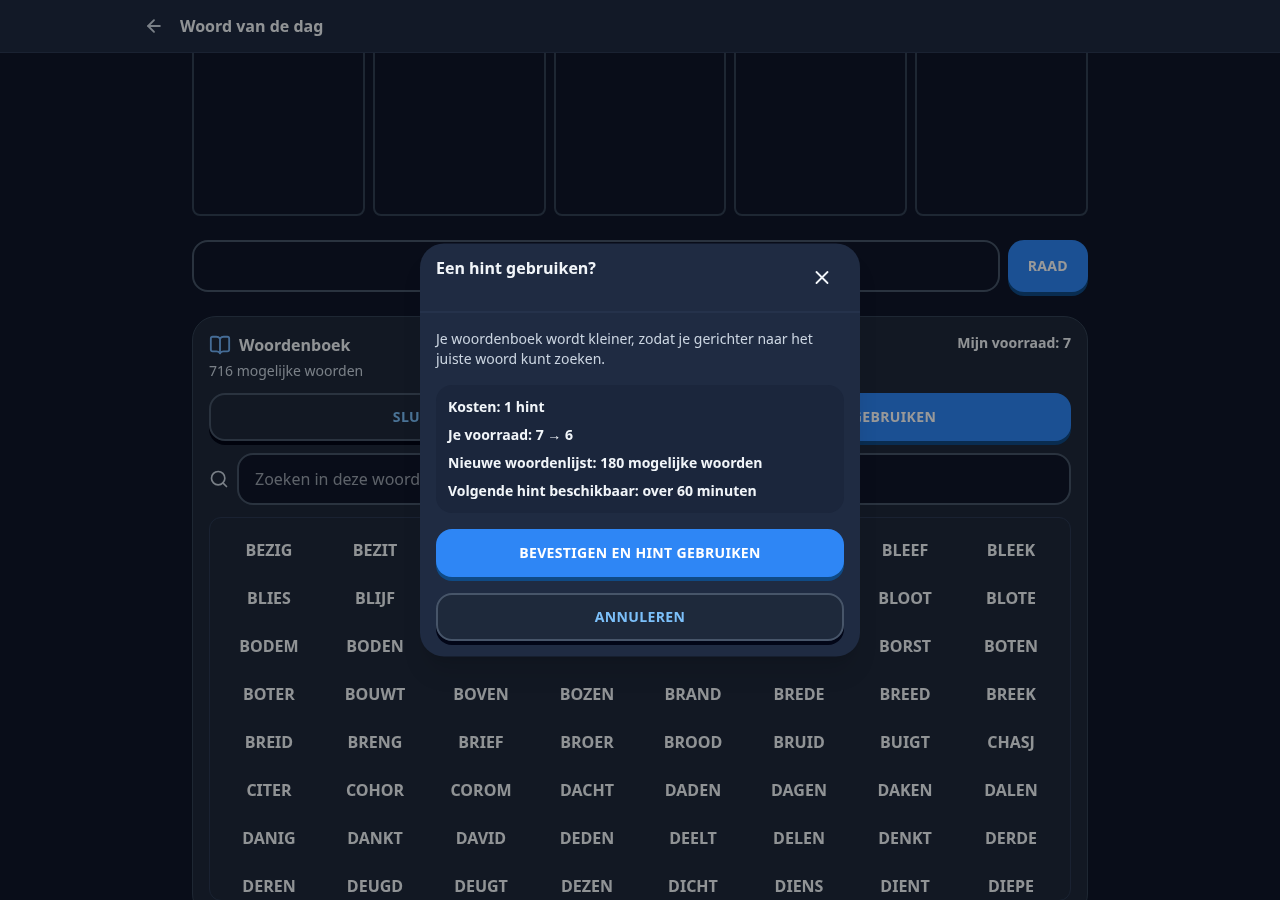
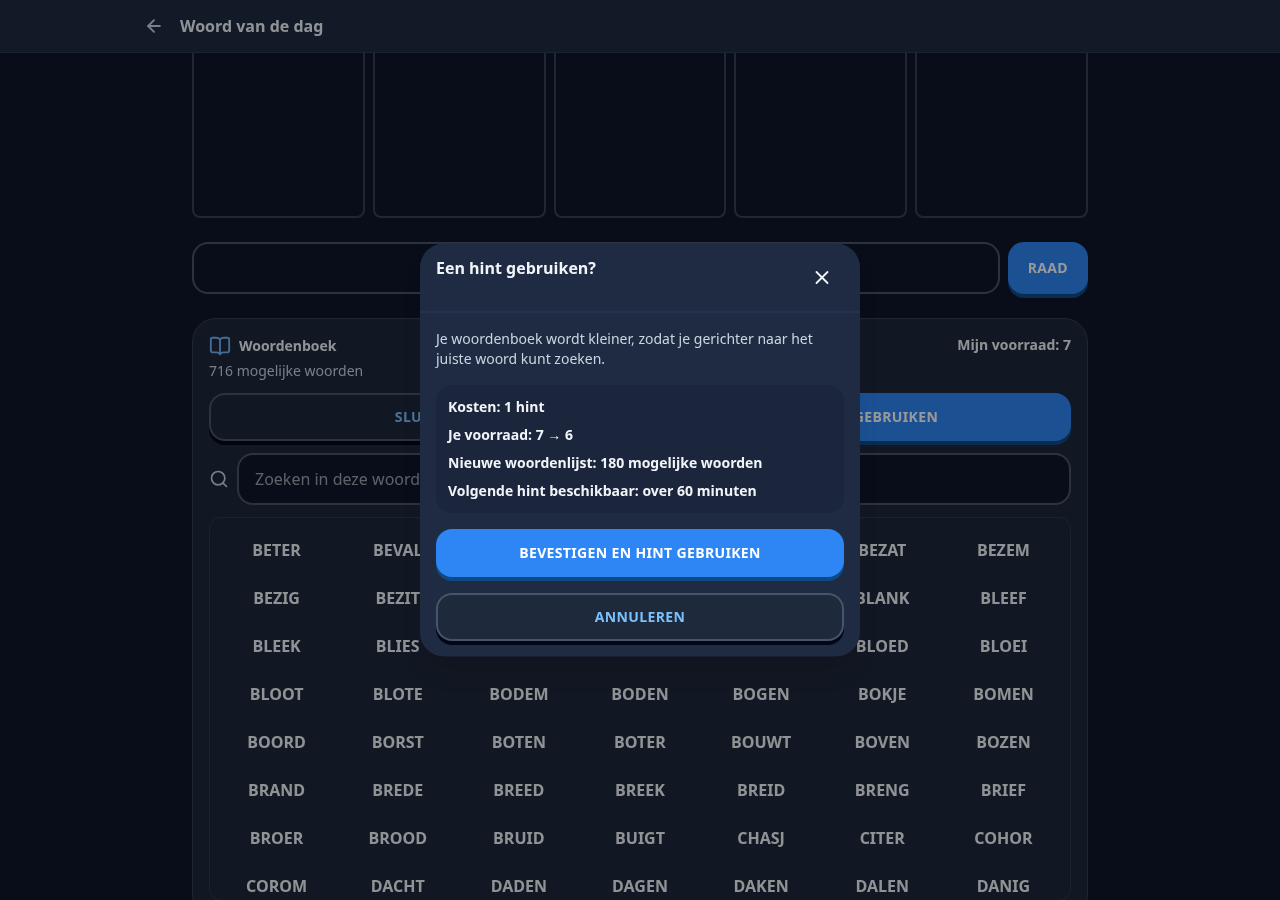
Bescherm hintbediening tegen brede systeemfonts en grote tekst

diff --git a/src/components/WordGameHintPanel.tsx b/src/components/WordGameHintPanel.tsx
@@ -79,15 +79,15 @@ export default function WordGameHintPanel({ gameId, hints, finished, serverNow, 
     } finally { buying.current = false; setBusy(false); }
   }
   const canBuy = !finished && hints.nextCount !== null;
-  return <section className="card flex min-w-0 flex-col gap-3 !p-3 text-vs-fg sm:!p-4" aria-labelledby="word-hints-title" data-word-hints>
+  return <section className="card flex min-w-0 flex-col gap-3 !p-[12px] text-vs-fg sm:!p-4" aria-labelledby="word-hints-title" data-word-hints>
     <div className="flex flex-wrap items-start justify-between gap-2">
-      <div className="min-w-0"><h2 id="word-hints-title" className="flex items-center gap-2 font-extrabold"><BookOpen size={22} className="shrink-0 text-vs-accent" aria-hidden />{t("wordOfTheDay.hintTitle")}</h2>
+      <div className="min-w-0"><h2 id="word-hints-title" className="flex flex-wrap items-center gap-2 text-sm font-extrabold [overflow-wrap:normal]"><BookOpen size={22} className="shrink-0 text-vs-accent" aria-hidden />{t("wordOfTheDay.hintTitle")}</h2>
         <p className="mt-1 text-sm text-vs-fg-2">{hints.level > 0 ? t("wordOfTheDay.hintCount", { n: hints.candidates.length }) : t("wordOfTheDay.hintLocked")}</p></div>
       <p className="text-sm font-semibold" data-word-hint-stock>{balance === undefined ? t("common.loading") : t("wordOfTheDay.hintStock", { n: balance })}</p>
     </div>
     <div className="flex flex-wrap gap-2">
       {hints.level > 0 && <button type="button" className="btn-secondary min-h-12 min-w-[min(100%,9rem)] flex-1 !px-2" aria-expanded={open} onClick={() => setOpen(!open)}>{t(open ? "wordOfTheDay.hintClose" : "wordOfTheDay.hintOpen")}</button>}
-      {canBuy && <button ref={trigger} type="button" className="btn-primary min-h-12 min-w-[min(100%,9rem)] flex-1 gap-2 !px-2" disabled={busy} onClick={ask}><Lightbulb size={22} className="hidden shrink-0 sm:block" aria-hidden />{t("wordOfTheDay.hintUse")}</button>}
+      {canBuy && <button ref={trigger} type="button" className="btn-primary min-h-12 min-w-[min(100%,9rem)] flex-1 gap-2 !px-1 [overflow-wrap:normal]" disabled={busy} onClick={ask}><Lightbulb size={22} className="hidden shrink-0 sm:block" aria-hidden />{t("wordOfTheDay.hintUse")}</button>}
     </div>
     {canBuy && remaining > 0 && <p className="text-sm text-vs-fg-2" data-word-hint-countdown>{cooldownText}</p>}
     {!finished && hints.nextCount === null && <p className="text-sm text-vs-fg-2">{t("wordOfTheDay.hintMax")}</p>}
@@ -97,7 +97,7 @@ export default function WordGameHintPanel({ gameId, hints, finished, serverNow, 
     {open && hints.level > 0 && <div className="space-y-3" data-word-dictionary>
       <label className="flex items-center gap-2"><Search size={20} className="shrink-0 text-vs-fg-2" aria-hidden /><input type="search" className="input min-w-0" aria-label={t("wordOfTheDay.hintSearch")} placeholder={t("wordOfTheDay.hintSearch")} value={search} onChange={(event) => setSearch(event.target.value)} /></label>
       <div className="max-h-[min(45svh,24rem)] overflow-y-auto overscroll-contain rounded-xl border border-vs-line p-2" tabIndex={0} aria-label={t("wordOfTheDay.hintCount", { n: words.length })}>
-        <ul className="grid grid-cols-[repeat(auto-fit,minmax(min(100%,6rem),1fr))] gap-1">{words.map((word) => <li key={word}>{finished ? <span className="block p-2 text-center font-semibold uppercase">{word}</span> : <button type="button" className="min-h-11 w-full rounded-lg p-2 text-center font-semibold uppercase hover:bg-vs-accent-soft focus-visible:outline-none focus-visible:ring-2 focus-visible:ring-vs-accent" aria-label={t("wordOfTheDay.hintSelect", { word })} onClick={() => { onFill(word); setMessage(t("wordOfTheDay.hintSelected", { word })); }}>{word}</button>}</li>)}</ul>
+        <ul className="grid grid-cols-[repeat(auto-fit,minmax(min(100%,7rem),1fr))] gap-1">{words.map((word) => <li key={word}>{finished ? <span className="block p-2 text-center font-semibold uppercase">{word}</span> : <button type="button" className="min-h-11 w-full rounded-lg p-2 text-center font-semibold uppercase hover:bg-vs-accent-soft focus-visible:outline-none focus-visible:ring-2 focus-visible:ring-vs-accent" aria-label={t("wordOfTheDay.hintSelect", { word })} onClick={() => { onFill(word); setMessage(t("wordOfTheDay.hintSelected", { word })); }}>{word}</button>}</li>)}</ul>
         {words.length === 0 && <p className="p-2 text-sm text-vs-fg-2">{t("wordOfTheDay.hintNoResults")}</p>}
       </div>
     </div>}
@@ -121,7 +121,7 @@ function HintConfirmation({ level, count, balance, busy, error, returnFocus, onC
   }, [returnFocus]);
   return createPortal(<dialog ref={dialog} aria-modal="true" aria-labelledby="word-hint-confirm-title" aria-describedby="word-hint-confirm-description" onCancel={(event) => { event.preventDefault(); if (!busy) onClose(); }}
     className="vs-motion fixed inset-x-0 bottom-0 top-auto z-50 m-auto mb-0 flex max-h-[calc(100dvh-1rem-var(--vs-safe-area-top))] w-[calc(100%-var(--vs-safe-area-left)-var(--vs-safe-area-right))] max-w-[440px] flex-col overflow-hidden rounded-t-3xl border-0 bg-vs-elevated p-0 text-vs-fg shadow-xl [overflow-wrap:normal] backdrop:bg-vs-overlay/40 sm:bottom-auto sm:top-1/2 sm:-translate-y-1/2 sm:rounded-3xl">
-    <header className="flex shrink-0 items-start justify-between gap-2 border-b border-vs-line px-4 py-3"><h2 id="word-hint-confirm-title" className="min-w-0 text-base font-extrabold">{t("wordOfTheDay.hintConfirmTitle")}</h2><button type="button" autoFocus aria-label={t("wordOfTheDay.hintClose")} disabled={busy} className="flex min-h-[44px] min-w-[44px] shrink-0 items-center justify-center rounded-full hover:bg-vs-subtle focus-visible:outline-none focus-visible:ring-2 focus-visible:ring-vs-accent" onClick={onClose}><X size={22} aria-hidden /></button></header>
+    <header className="flow-root shrink-0 border-b border-vs-line px-4 py-3"><button type="button" autoFocus aria-label={t("wordOfTheDay.hintClose")} disabled={busy} className="float-right ml-2 flex min-h-[44px] min-w-[44px] items-center justify-center rounded-full hover:bg-vs-subtle focus-visible:outline-none focus-visible:ring-2 focus-visible:ring-vs-accent" onClick={onClose}><X size={22} aria-hidden /></button><h2 id="word-hint-confirm-title" className="text-base font-extrabold">{t("wordOfTheDay.hintConfirmTitle")}</h2></header>
     <div className="min-h-0 space-y-4 overflow-y-auto overscroll-contain px-4 pb-[calc(1rem+var(--vs-safe-area-bottom))] pt-4 sm:pb-4">
       <p id="word-hint-confirm-description" className="text-sm text-vs-fg-2">{t(level === 0 ? "wordOfTheDay.hintUnlockDescription" : "wordOfTheDay.hintNarrowDescription")}</p>
       <div className="space-y-2 rounded-2xl bg-vs-subtle p-3 text-sm font-semibold"><p>{t("wordOfTheDay.hintCost")}</p><p>{t("wordOfTheDay.hintStockAfter", { before: balance, after: Math.max(0, balance - 1) })}</p><p>{t("wordOfTheDay.hintNextList", { n: count })}</p><p>{t("wordOfTheDay.hintNextAvailable")}</p></div>

diff --git a/docs/WORD-GAME-HINTS.md b/docs/WORD-GAME-HINTS.md
@@ -91,6 +91,9 @@ de hele pagina te breed. Alleen die rij mag nu wrappen; de ranking blijft
 ongewijzigd. Hintacties schuiven eveneens naar een eigen regel wanneer nodig.
 De modal breekt op woordgrenzen en behoudt bereikbare, intern scrollbare
 knoppen; zijn bodyportal volgt ook de bestaande `vs-motion`-regel.
+De titel loopt rond de sluitknop, zodat een lang woord op een volgende regel
+de volledige breedte krijgt. De kandidatenkolommen reserveren ook bij 200%
+tekst voldoende breedte voor vijfletterwoorden met bredere fallback-fonts.
 
 ## Aangepaste onderdelen
 
@@ -123,7 +126,10 @@ ook tijdzones, zomertijd, het klassement en eenmalige rangbonus.
 De browsercontrole dekt 320/375/390/430/768/1280 px en 844×390 landscape,
 licht/donker, 100/200% tekst, andere talen, focus/annuleren, dubbelklik,
 verloren betaalresponse, cooldown, kiezen versus raden, hervatten/inloggen,
-winkel, afronden en realtime tussen twee apparaten. Native iOS/Android en
+winkel, afronden en realtime tussen twee apparaten. De uitgebreide
+tekstcontrole gebruikt daarnaast een breed DejaVu Sans-fallback-font, omdat
+het smallere systeemfont van de cloudruntime een breedteprobleem bij andere
+systeemfonts anders niet blootlegt. Native iOS/Android en
 Safari zijn hiermee niet fysiek getest; dit is Chromium met touch-emulatie.
 
 Uitgevoerd op 11 oktober 2026, met nul overgeslagen databasecontroles:
@@ -136,7 +142,7 @@ Uitgevoerd op 11 oktober 2026, met nul overgeslagen databasecontroles:
 | `npm run test:live-data` | 51 geslaagd |
 | `npm run test:focus` | 23 geslaagd |
 | Kompas unit/layout | 60 geslaagd |
-| Productie-browser | 28 viewport/thema/tekstcombinaties, vier aanvullende talen en volledige betaalflow geslaagd |
+| Productie-browser | 42 viewport/thema/tekst/fontcombinaties, vier aanvullende talen en volledige betaalflow geslaagd |
 | TypeScript, Prisma-validatie, schone productiebuild | geslaagd |
 | ESLint | nul fouten; 132 bestaande waarschuwingen, geen nieuwe in gewijzigde hintcode |
 | i18n | geslaagd; alle nieuwe teksten vertaald, bestaande 423 ontbrekende vertalingen per andere taal ongewijzigd |
